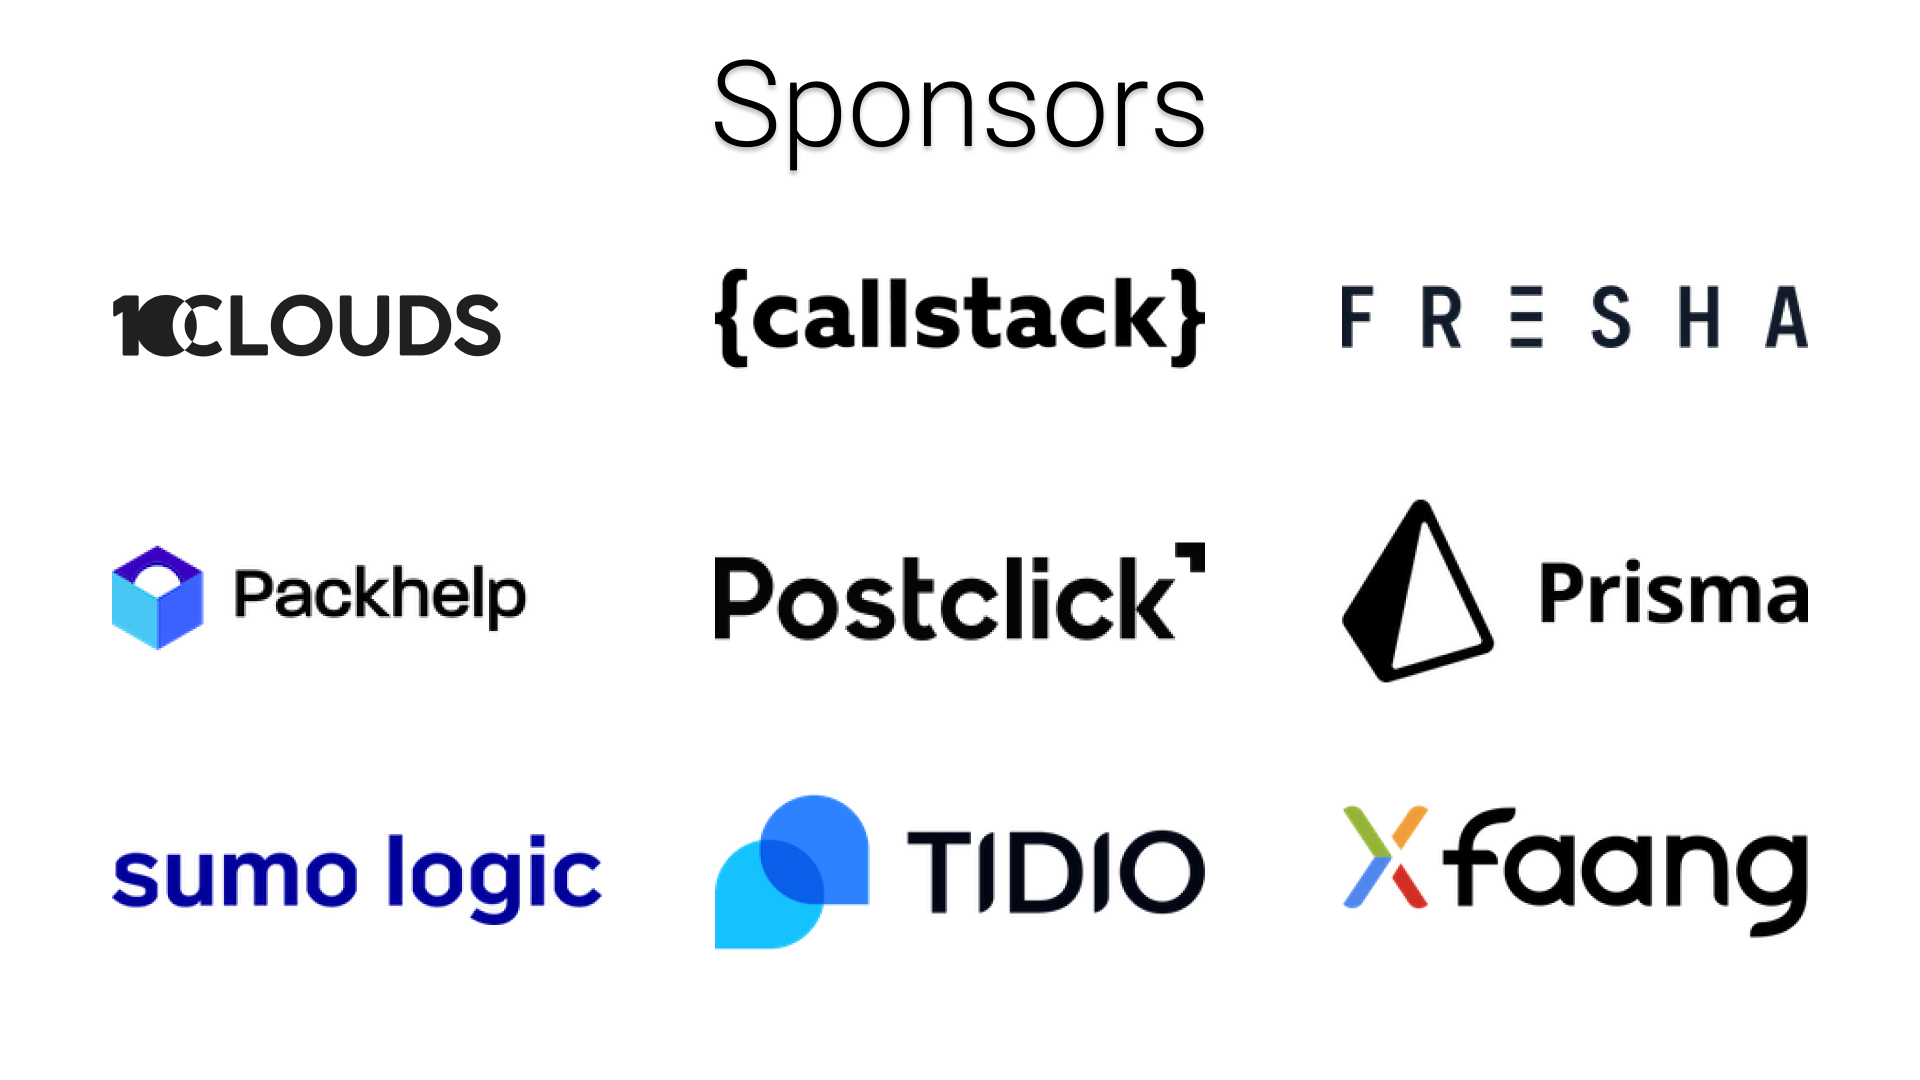
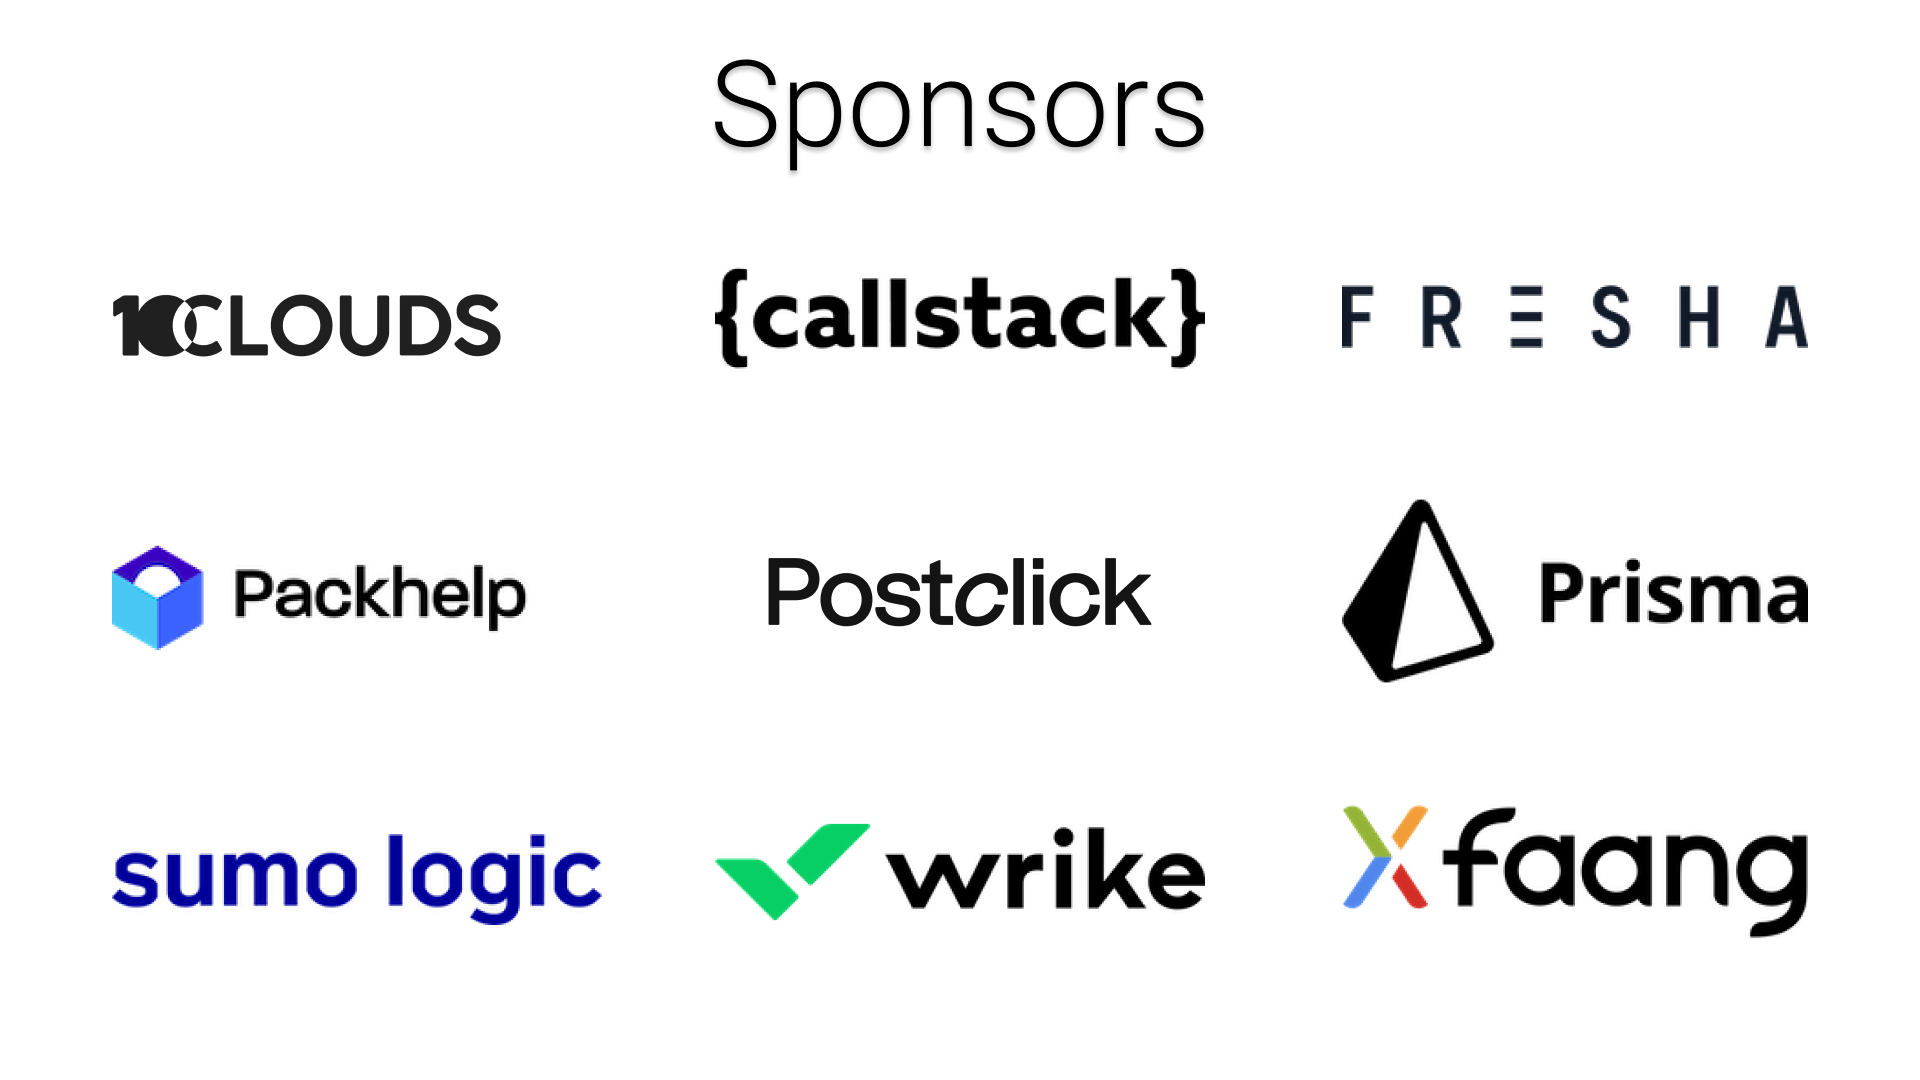
Update slides for WarsawJS #86

Changed region(s): [[0.375, 0.7333, 0.625, 0.8861], [0.375, 0.4889, 0.625, 0.6111]]

diff --git a/index.html b/index.html
@@ -291,7 +291,7 @@
 
     <section class="slide">
         <img class="cover" src="images/sponsors/Sponsors.png"
-             alt="10Clouds, Callstack, Fresha, Packhelp, Postclick, Prisma, Sumo Logic, Tidio, Xfaang"/>
+             alt="10Clouds, Callstack, Fresha, Packhelp, Postclick, Prisma, Sumo Logic, Wrike, Xfaang"/>
     </section>
 
     <section class="slide center slide-card-list" style="padding-top: 40px;">
@@ -321,7 +321,7 @@
     <section class="slide">
         <a href="https://discord.gg/A7ywS8gk">
             <img class="cover" src="images/misc/discord.png"
-                 alt="Discord: 10Clouds, Callstack, Fresha, Packhelp, Postclick, Prisma, Sumo Logic, Tidio, Xfaang"/>
+                 alt="Discord: 10Clouds, Callstack, Fresha, Packhelp, Postclick, Prisma, Sumo Logic, Wrike, Xfaang"/>
         </a>   
     </section>
 
@@ -330,7 +330,7 @@
         <img
             class="cover"
             src="images/misc/Agenda.png"
-            alt="Meetup 84 speakers"
+            alt="Meetup 86 speakers"
         />
     </section>
 
@@ -342,10 +342,10 @@
 
     <section class="slide">
         <img class="cover" src="images/sponsors/Sponsors.png"
-             alt="10Clouds, Allegro Tech, Callstack, Fresha, Packhelp, Postclick, Prisma, Sumo Logic, Xfaang, Lexus żerań, Tidio, Gaminate, Renderro, Pragmatic Coders"/>
+             alt="10Clouds, Callstack, Fresha, Packhelp, Postclick, Prisma, Sumo Logic, Wrike, Xfaang"/>
     </section>
 
-    <section class="slide">
+<!--     <section class="slide">
         <a href="https://app.evenea.pl/event/warsawjs-workshop-57">
             <img
                 class="cover"
@@ -353,15 +353,15 @@
                 alt="Workshop 57 Trainers"
             />
         </a>
-    </section>
+    </section> -->
 
-    <section class="slide">
+<!--     <section class="slide">
         <img
             class="cover"
             src="images/misc/prisma_breakfast.jpg"
             alt="Warsaw Breakfast with Prisma"
         />
-    </section>
+    </section> -->
 
     <section class="slide">
         <a href="https://linktr.ee/warsawjs">
@@ -381,7 +381,7 @@
         />
     </section>
 
-    <section class="slide">
+<!--     <section class="slide">
         <a href="https://warsawjs.com">
             <img
                 class="cover"
@@ -390,7 +390,7 @@
             />
         </a>   
     </section>
-
+ -->
 
     <!-- End of slides -->
 
